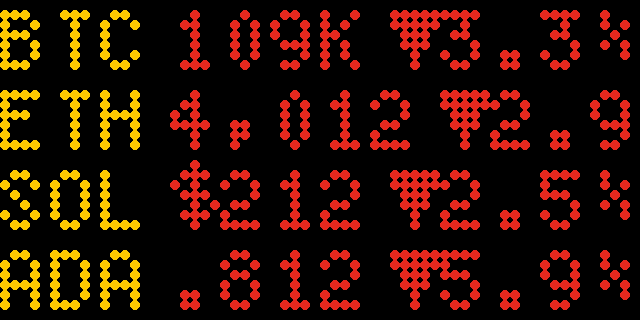
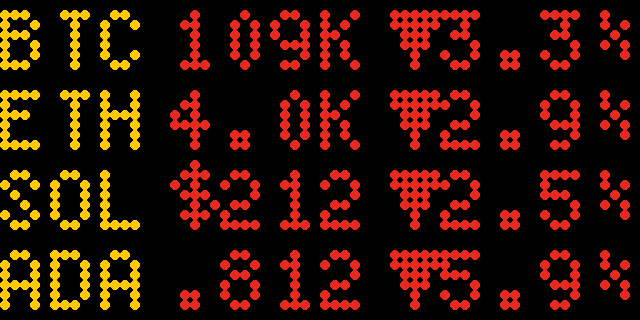
4-row list: always show the % sign, shorten the price instead
ETH at $4,012 showed "▼2.9" because the % sign was dropped first. Now the
% change is kept and the price is shortened (4,012 -> 4.0K), then the
change's decimal, and only in extreme cases the symbol or a tiny price's
digits. Also fixes price_candidates returning None for prices like
0.00009999, which could crash any screen showing such a price.

Claude-Session: https://claude.ai/code/session_01CrJip9Jrz3Ax6cVzvSE4re

diff --git a/render.py b/render.py
@@ -68,8 +68,8 @@ def price_candidates(price, currency):
 
     full4, short4 = fmt(4)
     full3, short3 = fmt(3)
-    if short4:
-        return [short4, full4, short3]
+    if short4:  # short3 can be None when rounding removes a zero (0.00009999 -> 0.000100)
+        return [c for c in (short4, full4, short3) if c]
     return [full4, full3]
 
 
@@ -552,12 +552,19 @@ class Renderer:
         full = list(price_candidates(price, currency))
         out = full + [p[len(sign):] for p in full if sign]           # $4,012 then 4,012
         for unit, div in (("M", 1e6), ("K", 1e3)):
-            if price >= div:
-                v = f"{price / div:.3g}{unit}"
-                out += [sign + v, v]                                    # $109K then 109K
+            if round(price) >= div:  # 999.99 displays as 1,000, so it gets 1.0K too
+                v = price / div
+                short = f"{v:.1f}{unit}" if v < 10 else f"{v:.0f}{unit}"
+                for t in (f"{v:.3g}{unit}", short):                   # $109K, 4.01K, 4.0K
+                    out += [sign + t, t]
                 break
         if price < 1:                                                   # .8123
             out += [p[len(sign):].replace("0.", ".", 1) for p in full]
+            if 0 < price < 0.0001:                                      # .0₄11 (2 digits)
+                frac = f"{price:.{-math.floor(math.log10(price)) + 1}f}".split(".")[1]
+                zeros = len(frac) - len(frac.lstrip("0"))
+                sub = f".0{str(zeros).translate(SUBSCRIPT)}"
+                out += [sub + frac.lstrip("0")[:2], sub + frac.lstrip("0")[:1]]  # last resort
         seen = []
         return [p for p in out if not (p in seen or seen.append(p))]
 
@@ -577,11 +584,12 @@ class Renderer:
 
     @staticmethod
     def list_changes(change):
+        """Always with the % sign; one decimal unless there's no room at all."""
         if change is None:
             return ["--"]
         arrow = "▲" if change >= 0 else "▼"
         a = abs(change)
-        return [f"{arrow}{a:.1f}%", f"{arrow}{a:.1f}", f"{arrow}{a:.0f}%", f"{arrow}{a:.0f}"]
+        return [f"{arrow}{a:.1f}%", f"{arrow}{a:.0f}%"] if a < 100 else [f"{arrow}{a:.0f}%"]
 
     def list_page(self, assets, rows=5, stale=False):
         """One page of up to ``rows`` coins.
@@ -616,15 +624,20 @@ class Renderer:
                 if aw:
                     self._arrow(img, x - aw, baseline, change >= 0, color)
             else:
+                # keep the % change whole; shorten the price first (4,012 -> 4.0K),
+                # then the change's decimal, and only then a long symbol
                 fit = None
-                for ctext in self.list_changes(change):
-                    for ptext in prices:
-                        if sw + gap + font.width(ptext) + gap + font.width(ctext) <= right:
-                            fit = (ptext, ctext)
+                for symbol in (sym, sym[:4], sym[:3]):
+                    sw = font.width(symbol)
+                    for ctext in self.list_changes(change):
+                        fit = next(((p, ctext) for p in prices
+                                    if sw + gap + font.width(p) + gap + font.width(ctext) <= right), None)
+                        if fit:
                             break
                     if fit:
+                        sym = symbol
                         break
-                ptext, ctext = fit or (prices[-1], self.list_changes(change)[-1])
+                ptext, ctext = fit or (min(prices, key=font.width), self.list_changes(change)[-1])
                 cw = font.width(ctext)
                 font.draw(img, 0, baseline, sym, SYMBOL)
                 font.draw(img, right - cw - gap - font.width(ptext), baseline, ptext, color)

diff --git a/tests/test_focus_list.py b/tests/test_focus_list.py
@@ -132,3 +132,54 @@ def test_5x8_punctuation_sits_on_the_baseline():
         digit_rows = [y for y in range(12) if any(digit.getpixel((x, y)) for x in range(5))]
         assert max(rows) == max(digit_rows), ch     # same bottom row as the digits
         assert len(rows) <= 3, ch                   # a dot / short comma, not a plus
+
+
+@pytest.mark.parametrize("currency", ["usd", "eur", "jpy"])
+def test_4_row_list_always_shows_percent_and_fits(currency):
+    r = Renderer(currency=currency)
+    font = r.fonts["5x8"]
+    drawn = []
+    real = font.draw
+
+    def spy(img, x, baseline, text, color):
+        drawn.append((x, baseline, text))
+        return real(img, x, baseline, text, color)
+
+    font.draw = spy
+    for price in (109234.56, 4012.37, 999.99, 212.44, 22.41, 0.8123, 0.00001123, 1234567.0):
+        for change in (-2.91, 12.345, -123.4, 0.0):
+            for sym in ("ETH", "PEPE", "LONGSYM"):
+                a = sample_assets(["btc"])[0] | {"symbol": sym, "price": price, "change_24h": change}
+                drawn.clear()
+                r.list_page([a], rows=4)
+                ctext = drawn[-1][2]
+                assert ctext.endswith("%"), (price, change, sym, drawn)
+                for x, _, text in drawn:                 # nothing overlaps or runs off the edge
+                    assert x >= 0 and x + font.width(text) <= 64, (price, change, sym, drawn)
+                xs = sorted((x, x + font.width(t)) for x, _, t in drawn)
+                assert all(a_end <= b_start for (_, a_end), (b_start, _) in zip(xs, xs[1:])), drawn
+
+
+def test_eth_example_uses_short_price_not_dropped_percent():
+    r = Renderer()
+    a = sample_assets(["eth"])[0] | {"price": 4012.37, "change_24h": -2.91}
+    font = r.fonts["5x8"]
+    drawn = []
+    real = font.draw
+    font.draw = lambda img, x, b, t, c: (drawn.append(t), real(img, x, b, t, c))[1]
+    r.list_page([a], rows=4)
+    assert drawn == ["ETH", "4.0K", "▼2.9%"]
+
+
+@pytest.mark.parametrize("price", [0.00009999, 0.000099999, 0.0000999, 0.00001123, 0.0000000123])
+def test_tiny_prices_render_everywhere(price):
+    from render import price_candidates
+    assert all(isinstance(c, str) for c in price_candidates(price, "usd"))
+    r = Renderer()
+    a = sample_assets(["pepe"])[0] | {"price": price}
+    for layout in ("classic", "chart"):
+        r.layout = layout
+        r.asset(a)
+    r.featured(a)
+    for rows in (4, 5):
+        r.list_page([a], rows=rows)
